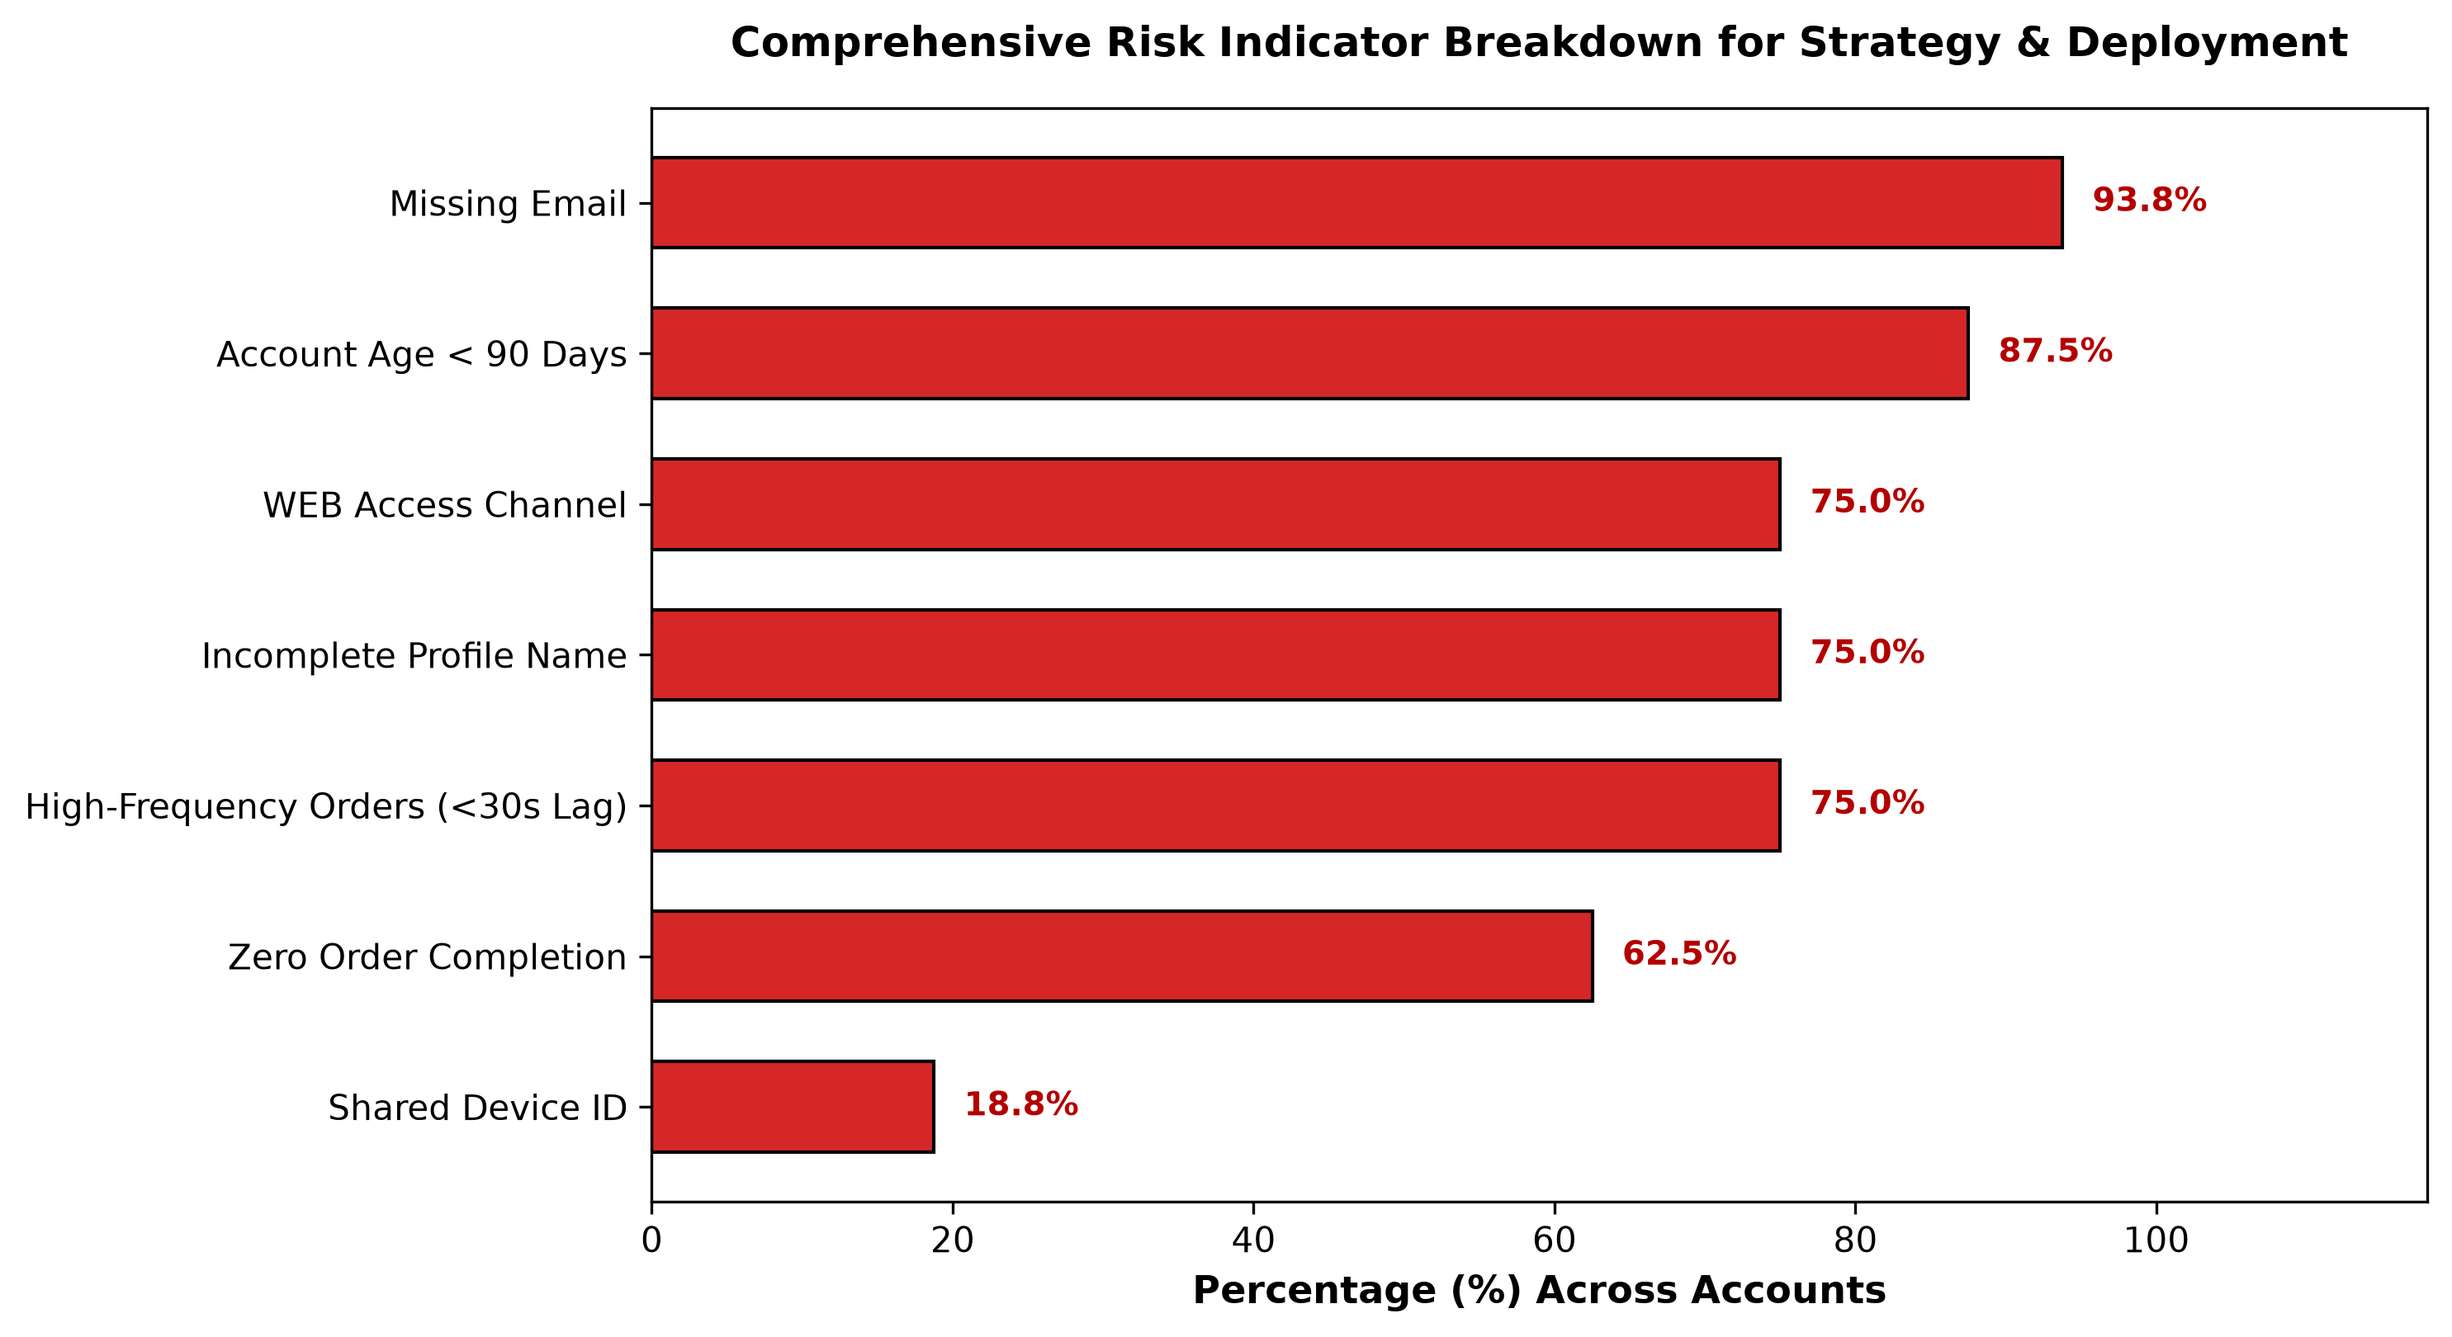
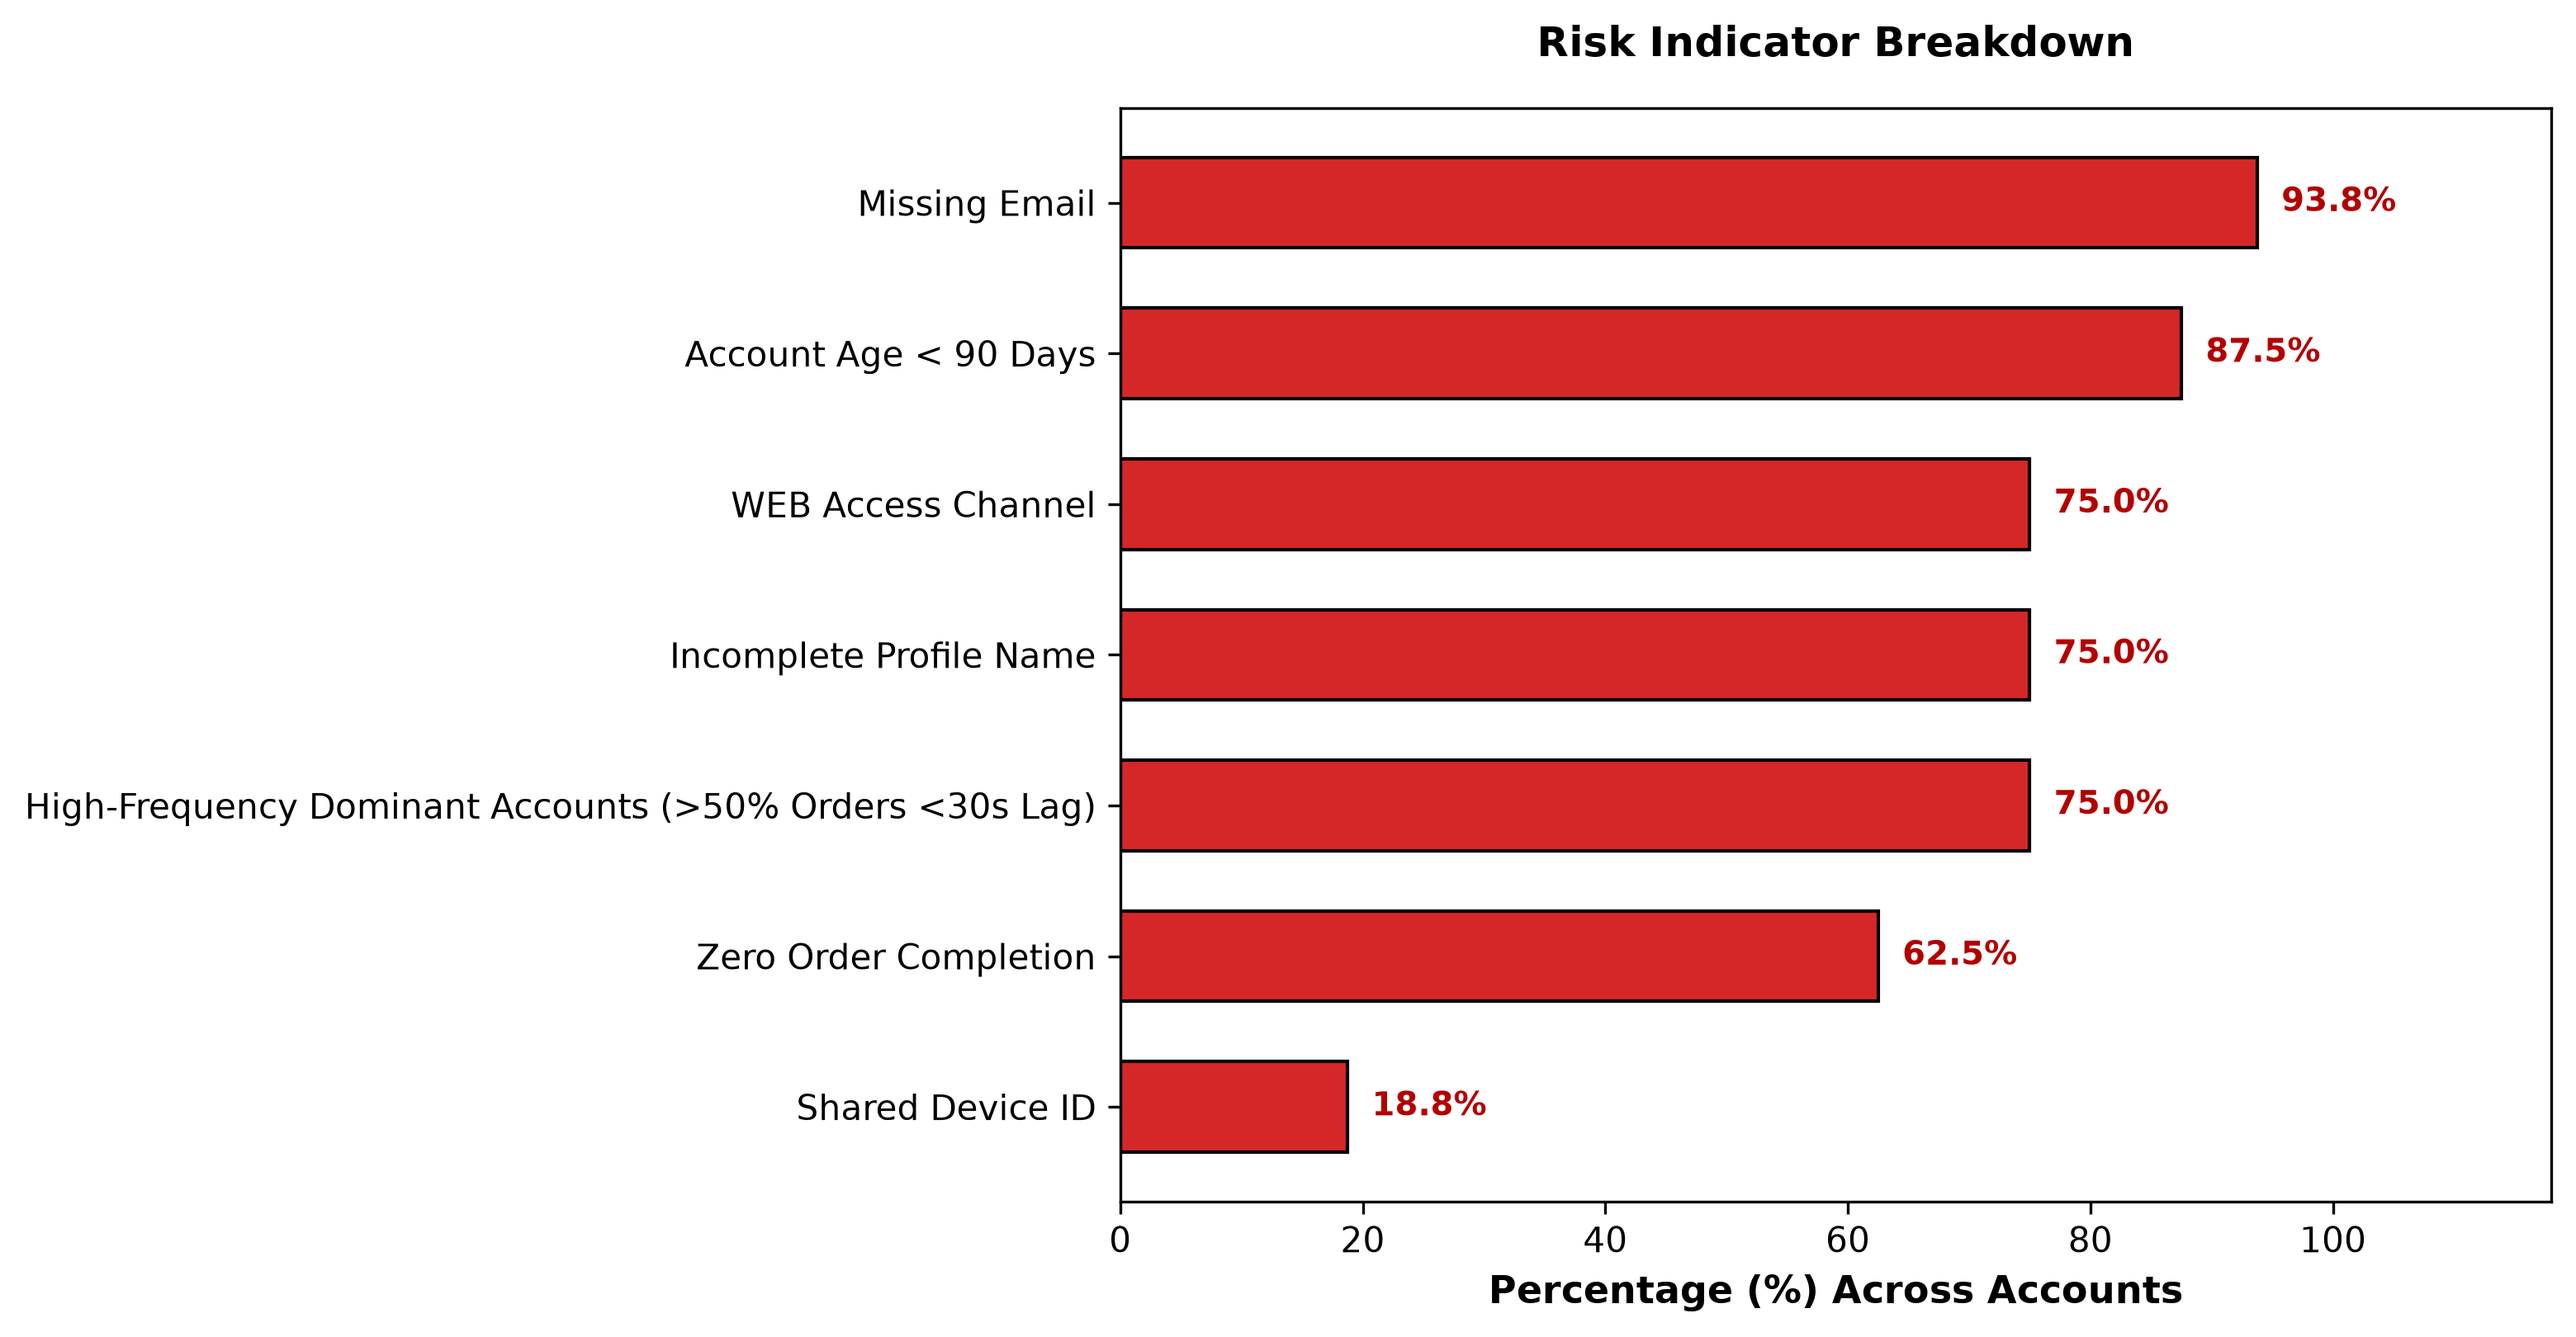
added summary risk indicator breakdown by acct level

diff --git a/script/risk_indicator_summary.py b/script/risk_indicator_summary.py
@@ -50,12 +50,17 @@ if "shared_device_id" not in df_user.columns:
     shared_ids = shared_ids[shared_ids > 1].index
     df_user["shared_device_id"] = df_user["device_identifier"].isin(shared_ids)
 
-# 5. Calculate High-Frequency Account Prevalence dynamically (<30s lag)
+# 5. Calculate High-Frequency Account Prevalence dynamically (>50% order share <30s lag)
 user_lag = df_lag_summary[
     ~df_lag_summary["user_id"].isin(["Total", "Percentage %"])
 ].copy()
-hf_accounts_cnt = (user_lag["0s - <30s"] > 0).sum()
-hf_prevalence = (hf_accounts_cnt / total_accounts) * 100
+
+# Calculate proportion of high-frequency orders per user
+user_lag["hf_order_pct"] = (user_lag["0s - <30s"] / user_lag["Total"]) * 100
+
+# Filter ONLY accounts where > 50% of their created orders are under <30s lag
+hf_dominant_accounts_cnt = (user_lag["hf_order_pct"] > 50.0).sum()
+hf_prevalence = (hf_dominant_accounts_cnt / total_accounts) * 100
 
 # 6. Build dynamic risk indicators dictionary (Fully automated calculation)
 risk_indicators = {
@@ -68,7 +73,7 @@ risk_indicators = {
         df_user["incomplete_profile_name"].sum() / total_accounts
     )
     * 100,
-    "High-Frequency Orders (<30s Lag)": hf_prevalence,
+    "High-Frequency Dominant Accounts (>50% Orders <30s Lag)": hf_prevalence,
     "WEB Access Channel": (df_user["is_web_device"].sum() / total_accounts) * 100,
     "Zero Order Completion": (df_user["zero_completion"].sum() / total_accounts)
     * 100,
@@ -84,7 +89,7 @@ risk_df = pd.DataFrame(
 ).sort_values("Prevalence (%)", ascending=True)
 
 # 8. Generate Horizontal Bar Chart
-fig, ax = plt.subplots(figsize=(10, 5.5), dpi=300)
+fig, ax = plt.subplots(figsize=(10.5, 5.5), dpi=300)
 bars = ax.barh(
     risk_df["Indicator"],
     risk_df["Prevalence (%)"],
@@ -94,7 +99,7 @@ bars = ax.barh(
 )
 
 ax.set_title(
-    "Comprehensive Risk Indicator Breakdown for Strategy & Deployment",
+    "Risk Indicator Breakdown",
     fontsize=12,
     fontweight="bold",
     pad=15,
